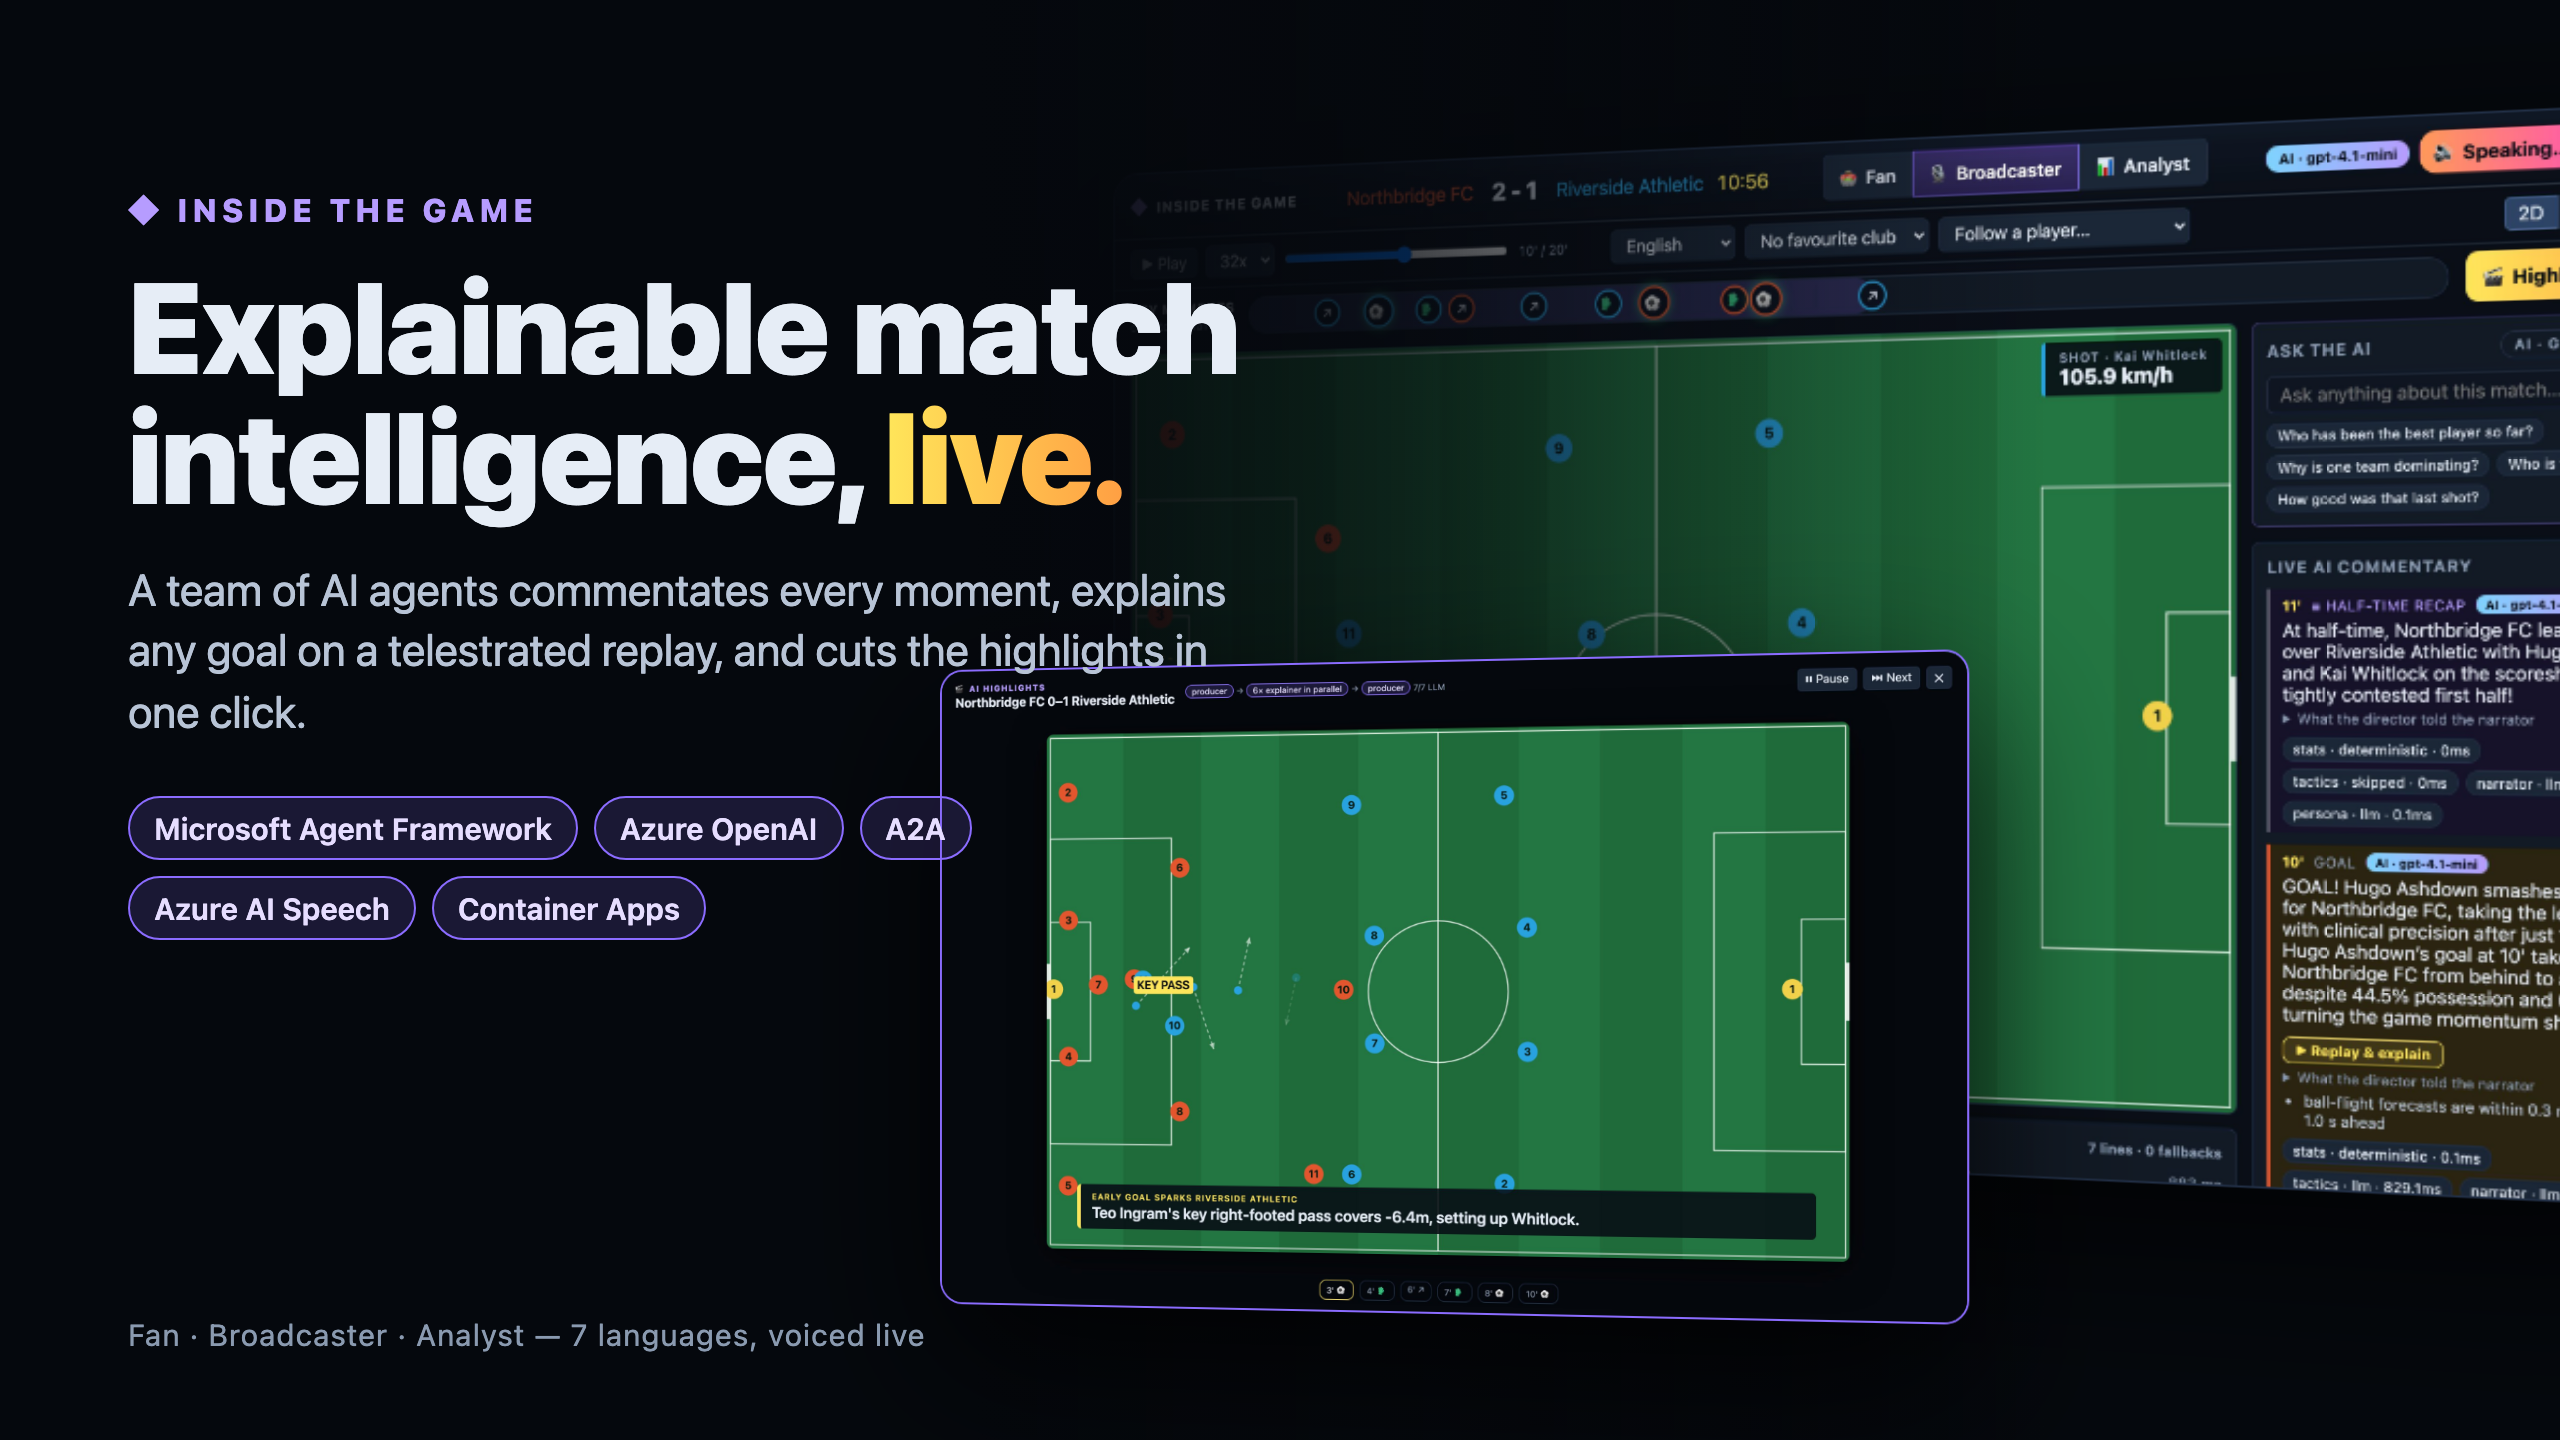
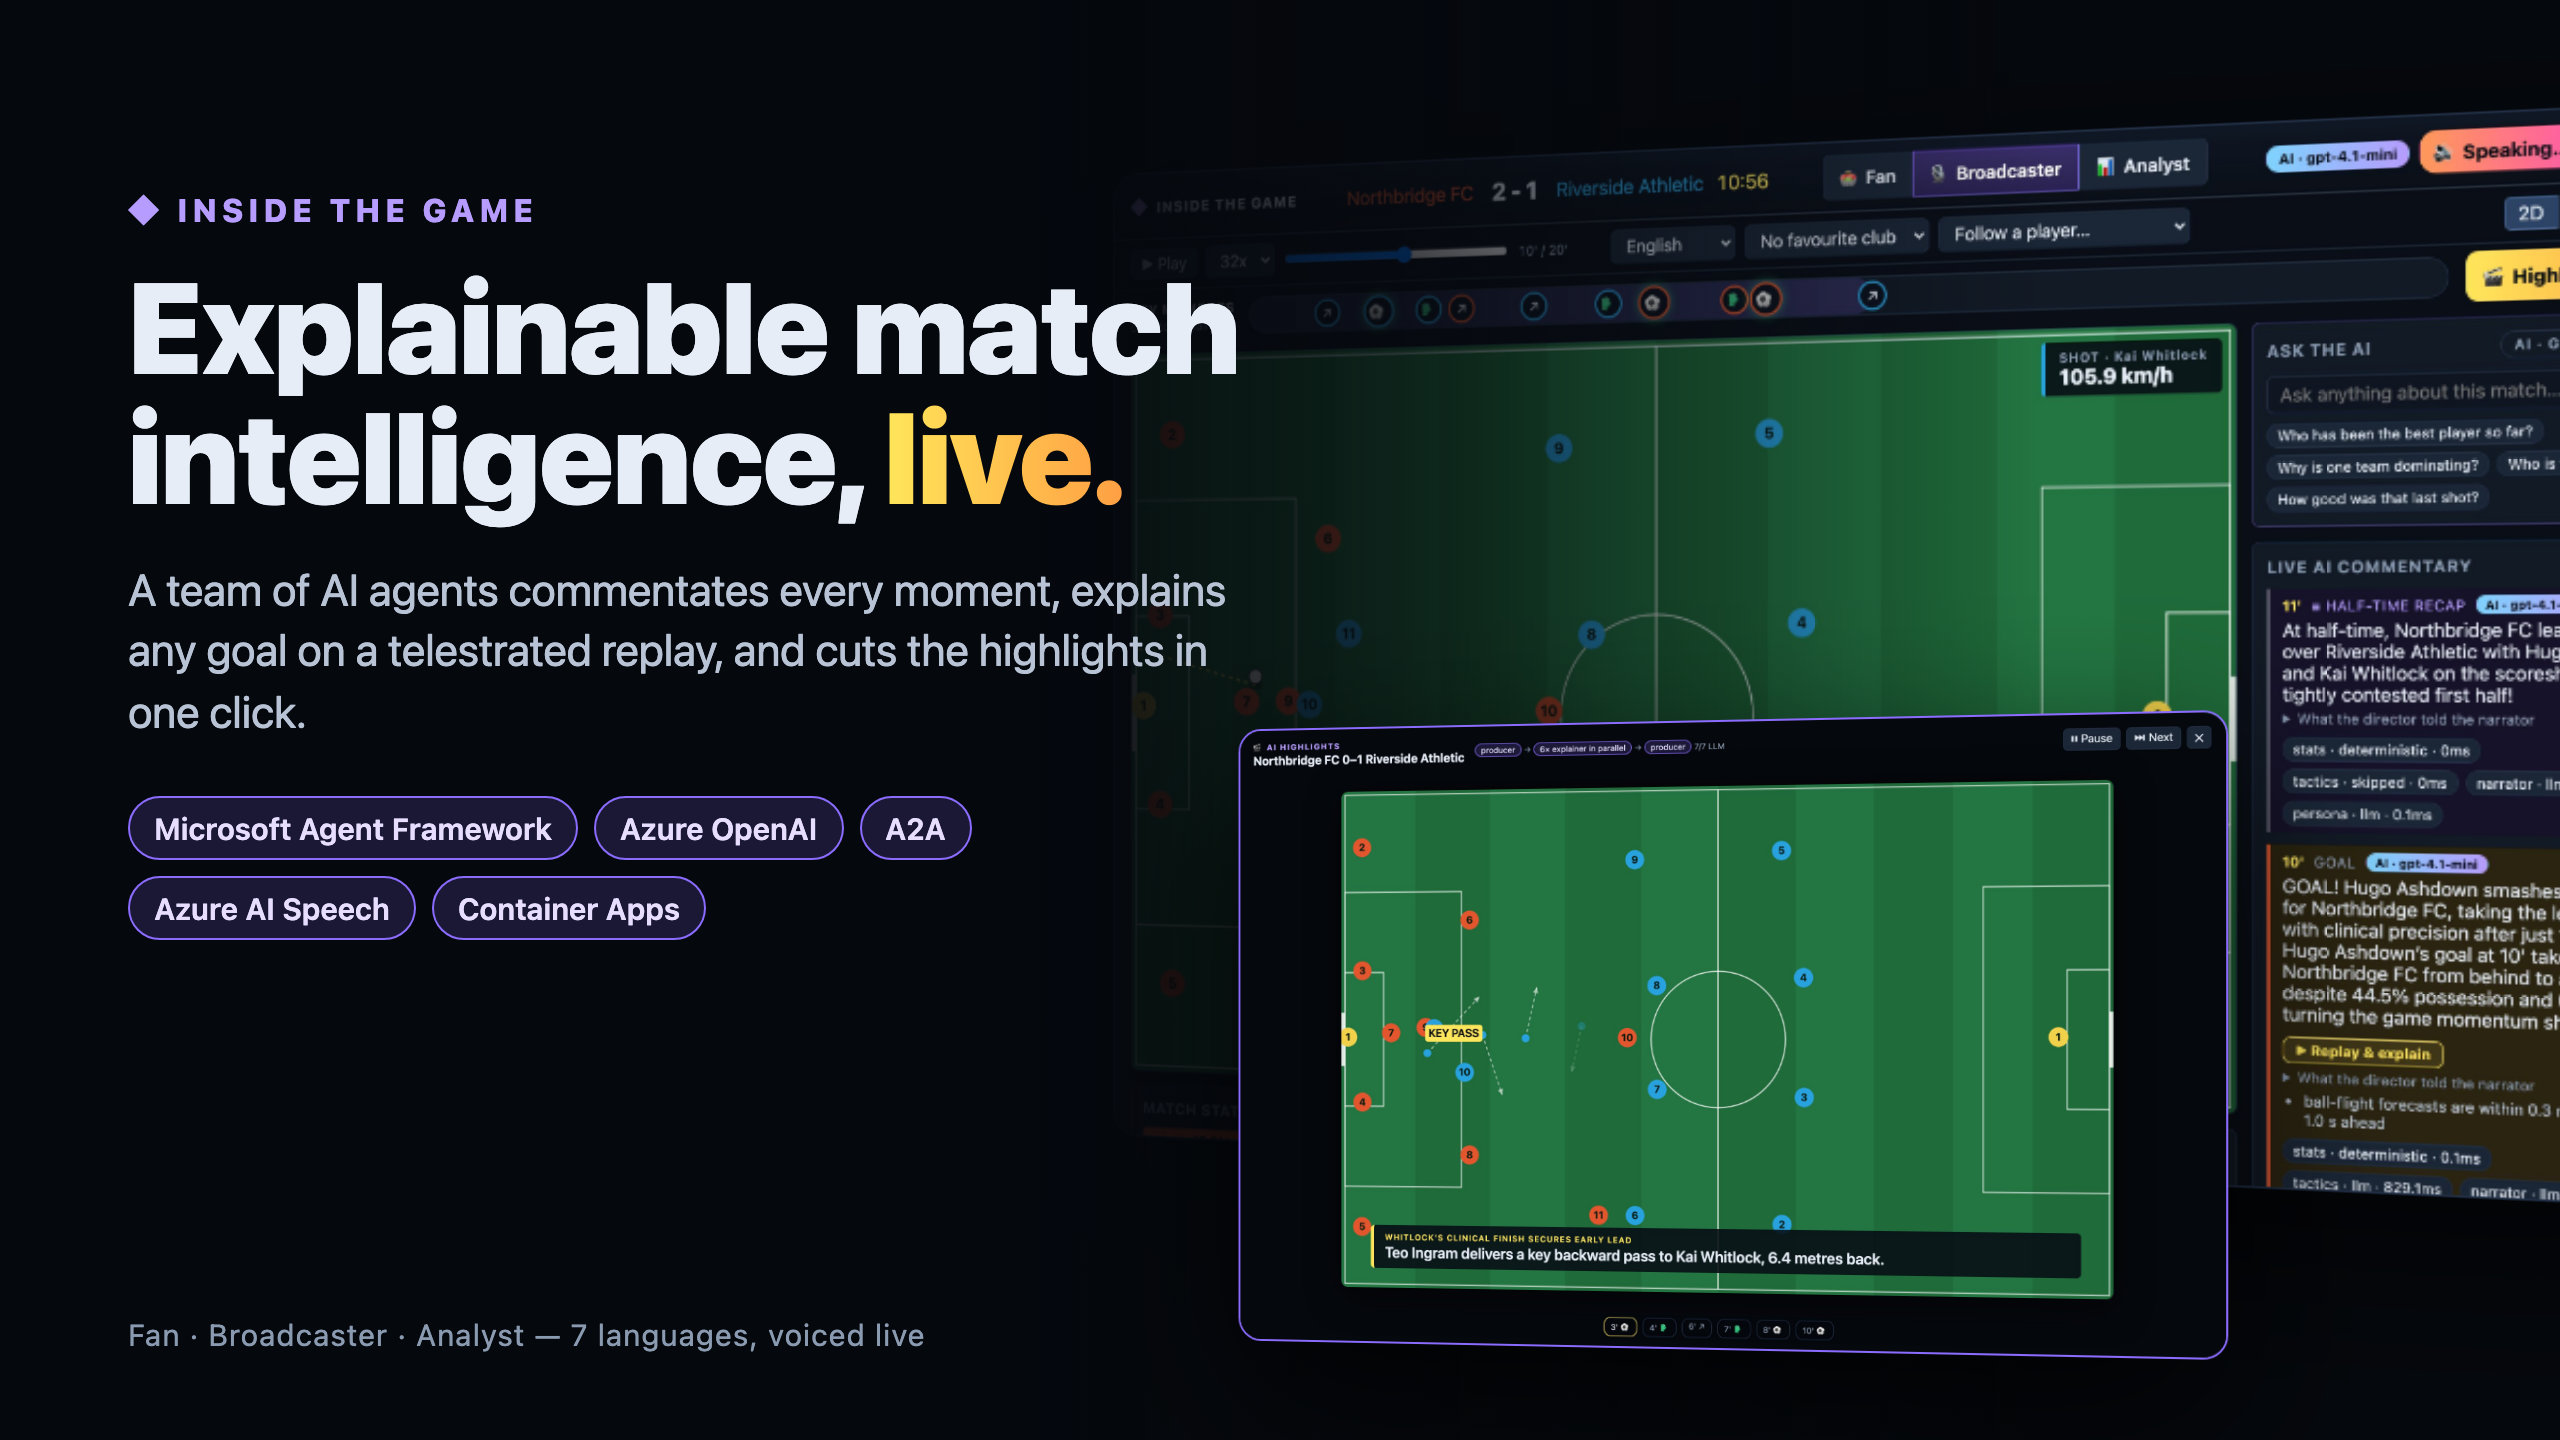
Add project cover image; refresh README screenshots from the live app

Changed region(s): [[0.375, 0.4375, 0.9062, 0.9375], [0.625, 0.75, 0.6562, 0.7812]]

diff --git a/README.md b/README.md
@@ -1,5 +1,7 @@
 # Inside the Game: Match Intelligence
 
+![Inside the Game: explainable match intelligence, live](docs/cover.png)
+
 Hackathon project for **Microsoft + Premier League "Inside the Game"**. It turns synthetic football data into
 live, explainable match intelligence: stats derived from raw data, a bird's-eye view, a 3D ball-flight
 forecast, and a multi-agent narrator that writes for each viewer.
